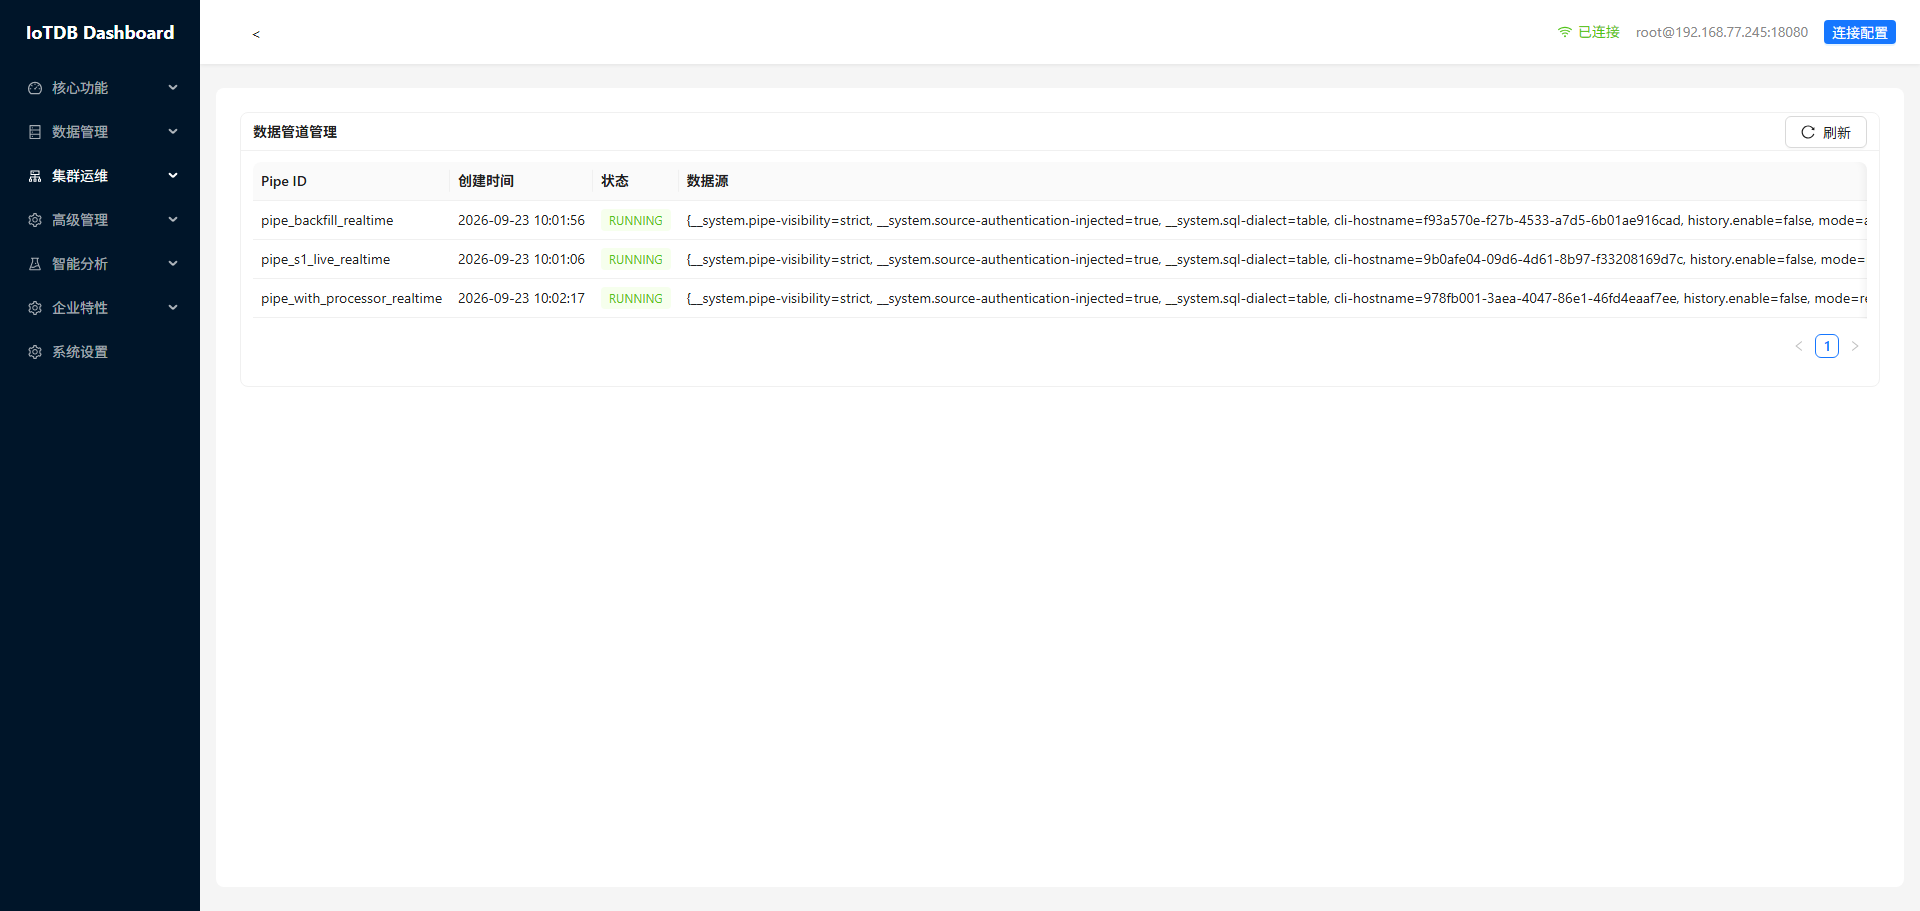
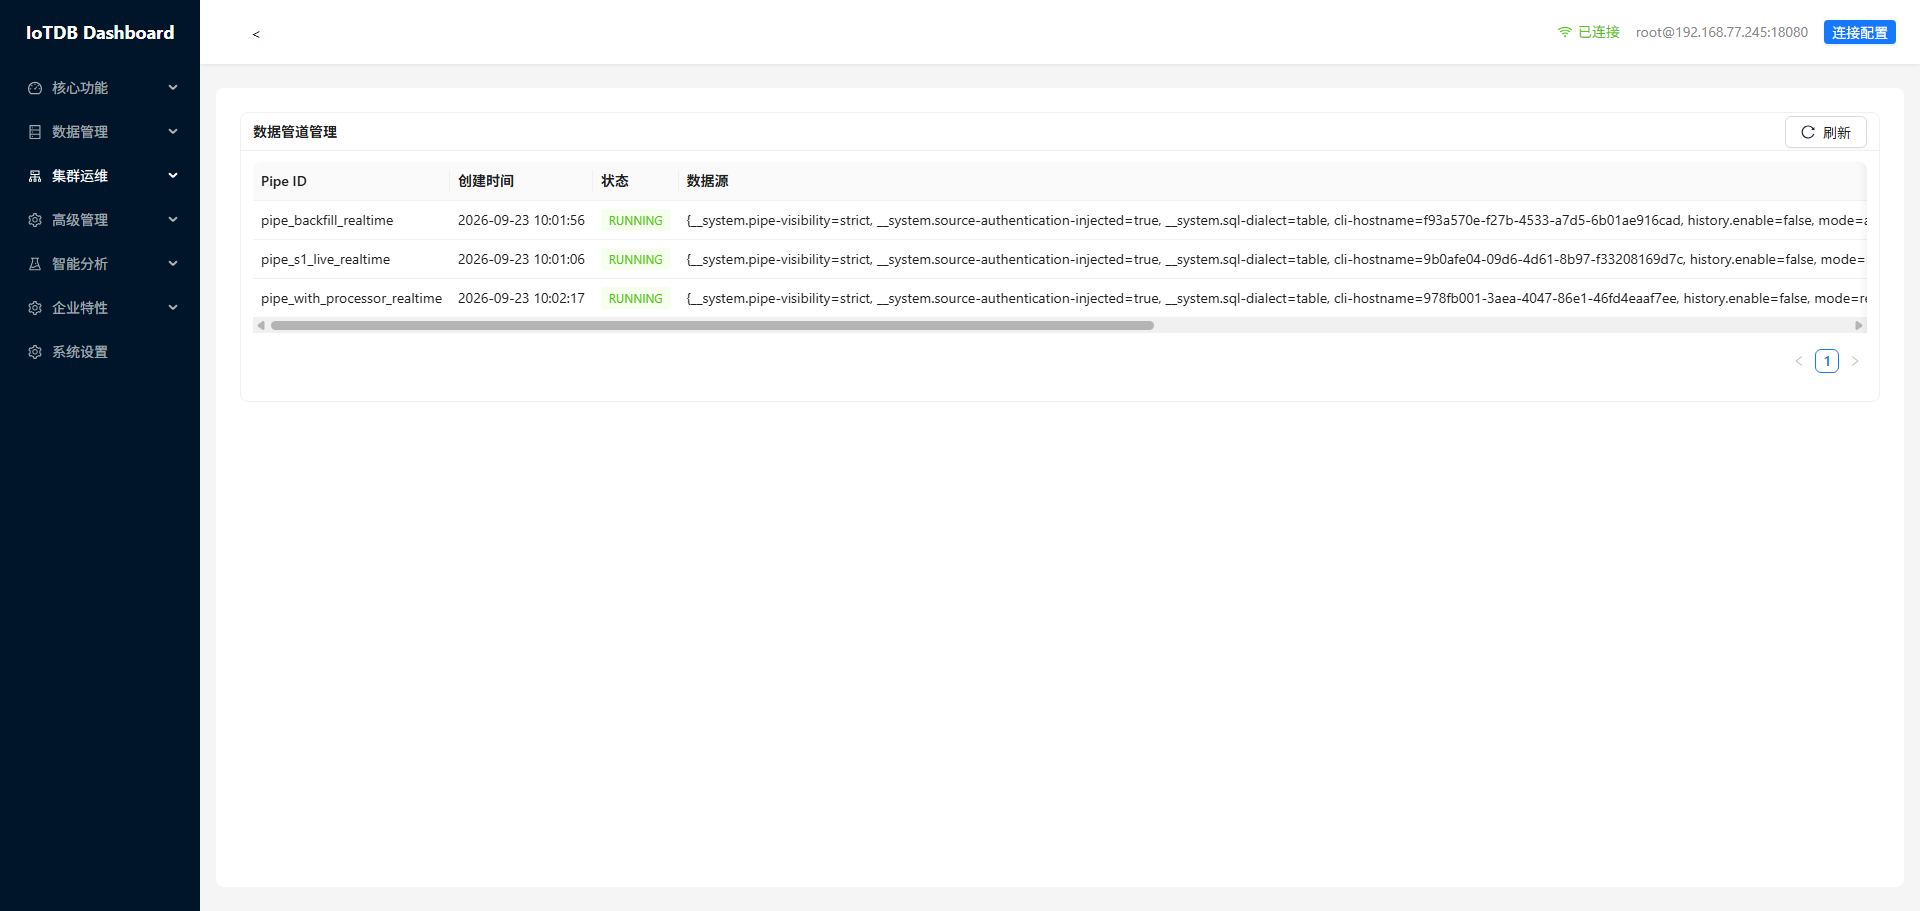
docs(gallery): re-shoot every capture after the author deleted the data behind them
The old set was taken while a real database was on the node, and its name ended up in the AI
page's input box and in the system-info table. The node now holds only a throwaway root.sg
demo database, so the whole gallery is re-captured against it, and the disclosure says so
instead of only pointing at the LAN address.

Three captures are byte-identical to before: those pages show the same empty or form-only
state either way, so re-shooting changed nothing on them.

diff --git a/README.md b/README.md
@@ -19,7 +19,7 @@ Licensed under the Apache License 2.0 — see [LICENSE](./LICENSE) and [NOTICE](
 
 ## Interface preview
 
-Every image below is a real 1920×911 capture against a running IoTDB 2.0.11 node — no mock data and no staged screens. The grouping follows the sidebar. Where a page shows a server refusal instead of a table, that is the honest result: IoTDB 2.0.11 simply has no such statement, and the app reports the rejection rather than painting an empty state. The header of each capture shows the address of the author's private LAN node, which is where the data came from and is not reachable from anywhere else.
+Every image below is a real 1920×911 capture against a running IoTDB 2.0.11 node — no mock data and no staged screens. The grouping follows the sidebar. Where a page shows a server refusal instead of a table, that is the honest result: IoTDB 2.0.11 simply has no such statement, and the app reports the rejection rather than painting an empty state. The header of each capture shows the address of the author's private LAN node, and the data behind it is a throwaway `root.sg` database (two devices, nine timeseries of synthetic sensor values) — nothing there is production telemetry, and none of it is reachable from anywhere else.
 
 ### Core
 

diff --git a/README_ZH.md b/README_ZH.md
@@ -21,7 +21,7 @@
 
 ## 界面预览
 
-下面每一张图都是在真实运行的 IoTDB 2.0.11 节点上截取的 1920×911 画面，没有假数据、没有摆拍的空白页。分组与左侧菜单一致。某些页面显示的是服务端拒绝而不是表格，这是真实结果：IoTDB 2.0.11 没有对应语句，应用把拒绝原因原样报出来，而不是画一个空状态糊过去。每张图顶部显示的是作者局域网里的开发节点地址，截图数据来自那里，你在别处访问不到。
+下面每一张图都是在真实运行的 IoTDB 2.0.11 节点上截取的 1920×911 画面，没有假数据、没有摆拍的空白页。分组与左侧菜单一致。某些页面显示的是服务端拒绝而不是表格，这是真实结果：IoTDB 2.0.11 没有对应语句，应用把拒绝原因原样报出来，而不是画一个空状态糊过去。每张图顶部显示的是作者局域网里的开发节点地址，背后的数据是一个用完就可以扔掉的 `root.sg` 库（两台设备、九个测点，数值是造的），不是任何生产遥测数据，外部也访问不到。
 
 ### 核心功能
 
